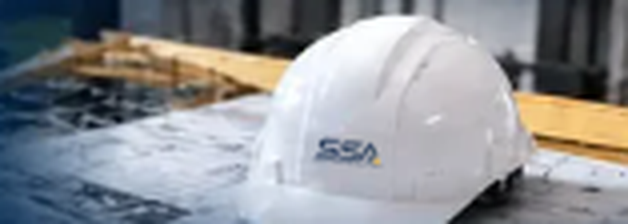
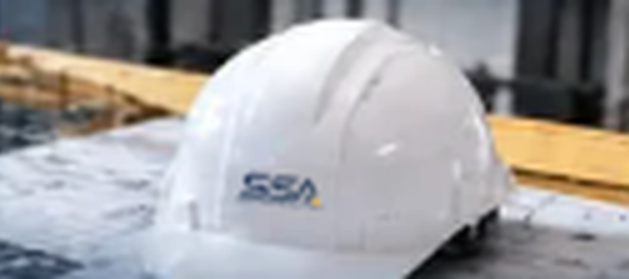
Show the EVT hard hat at its real size and center the experience line on the signup button.

diff --git a/resources/css/evt-landing.css b/resources/css/evt-landing.css
@@ -250,12 +250,12 @@
    display: flex;
    flex-direction: column;
    align-items: center;
-   width: 100%;
-   margin-top: 20px;
+   width: min(100%, 520px);
+   margin: 20px auto 0;
 }
 
 .evt-hero .evt-btn {
-   width: min(100%, 520px);
+   width: 100%;
    min-height: 68px;
    margin-top: 0;
    padding: 12px 28px;
@@ -272,7 +272,7 @@
    justify-content: center;
    gap: 12px;
    width: max-content;
-   max-width: 100%;
+   max-width: none;
    margin-top: 16px;
    color: var(--evt-navy);
    font-size: 18px;
@@ -591,7 +591,7 @@
 
 .evt-why-banner {
    display: grid;
-   grid-template-columns: minmax(0, 1fr) min(628px, 46vw);
+   grid-template-columns: minmax(0, 1fr) min(629px, 46vw);
    align-items: center;
    column-gap: 20px;
    padding: 18px 0;
@@ -600,7 +600,7 @@
 
 .evt-why-photo {
    display: block;
-   width: 628px;
+   width: 629px;
    max-width: 100%;
    height: auto;
    justify-self: end;
@@ -880,6 +880,21 @@
    scroll-margin-top: 16px;
 }
 
+@media (max-width: 1200px) {
+   .evt-hero-cta {
+      width: 100%;
+   }
+
+   .evt-experience {
+      max-width: 100%;
+      white-space: normal;
+   }
+
+   .evt-experience span {
+      min-width: 0;
+   }
+}
+
 @media (max-width: 1040px) {
    .evt-hero {
       min-height: 0;
@@ -981,11 +996,21 @@
       padding-left: 0;
    }
 
+   .evt-hero-cta {
+      width: 100%;
+   }
+
    .evt-experience {
-      flex-wrap: wrap;
+      width: 100%;
+      max-width: 100%;
+      flex-wrap: nowrap;
       justify-content: center;
       white-space: normal;
       text-align: center;
+   }
+
+   .evt-experience span {
+      min-width: 0;
    }
 
    .evt-experience i {
@@ -999,8 +1024,8 @@
 
    .evt-why-photo {
       order: -1;
-      width: min(628px, 100%);
-      max-width: 628px;
+      width: min(629px, 100%);
+      max-width: 629px;
       height: auto;
       justify-self: center;
       -webkit-mask-image: none;

diff --git a/resources/js/pages/evt/index.tsx b/resources/js/pages/evt/index.tsx
@@ -343,7 +343,7 @@ export default function EvtLanding() {
                            exercises to build career-ready skills.
                         </p>
                      </div>
-                     <img className="evt-why-photo" src="/assets/evt/hard-hat.png" width={628} height={224} alt="" />
+                     <img className="evt-why-photo" src="/assets/evt/hard-hat.png" width={629} height={279} alt="" />
                   </div>
                   <div className="evt-wrap evt-why-grid">
                      <article className="evt-why-card">
